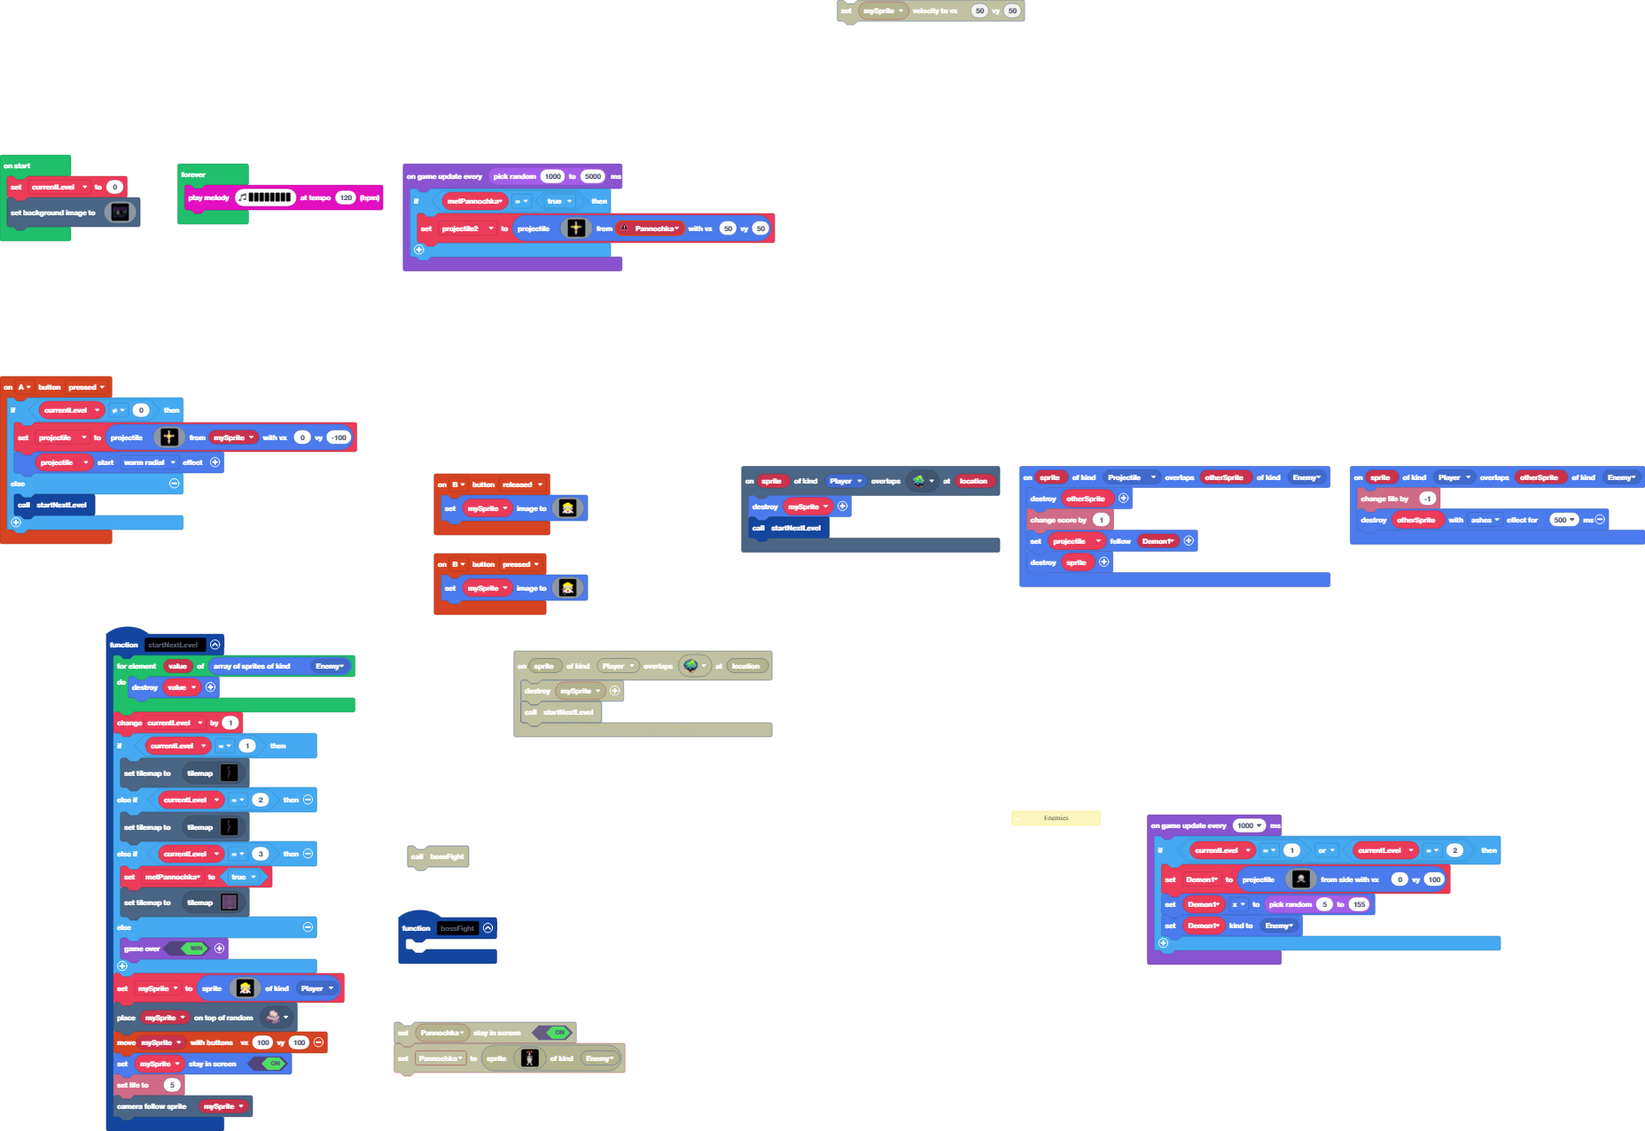
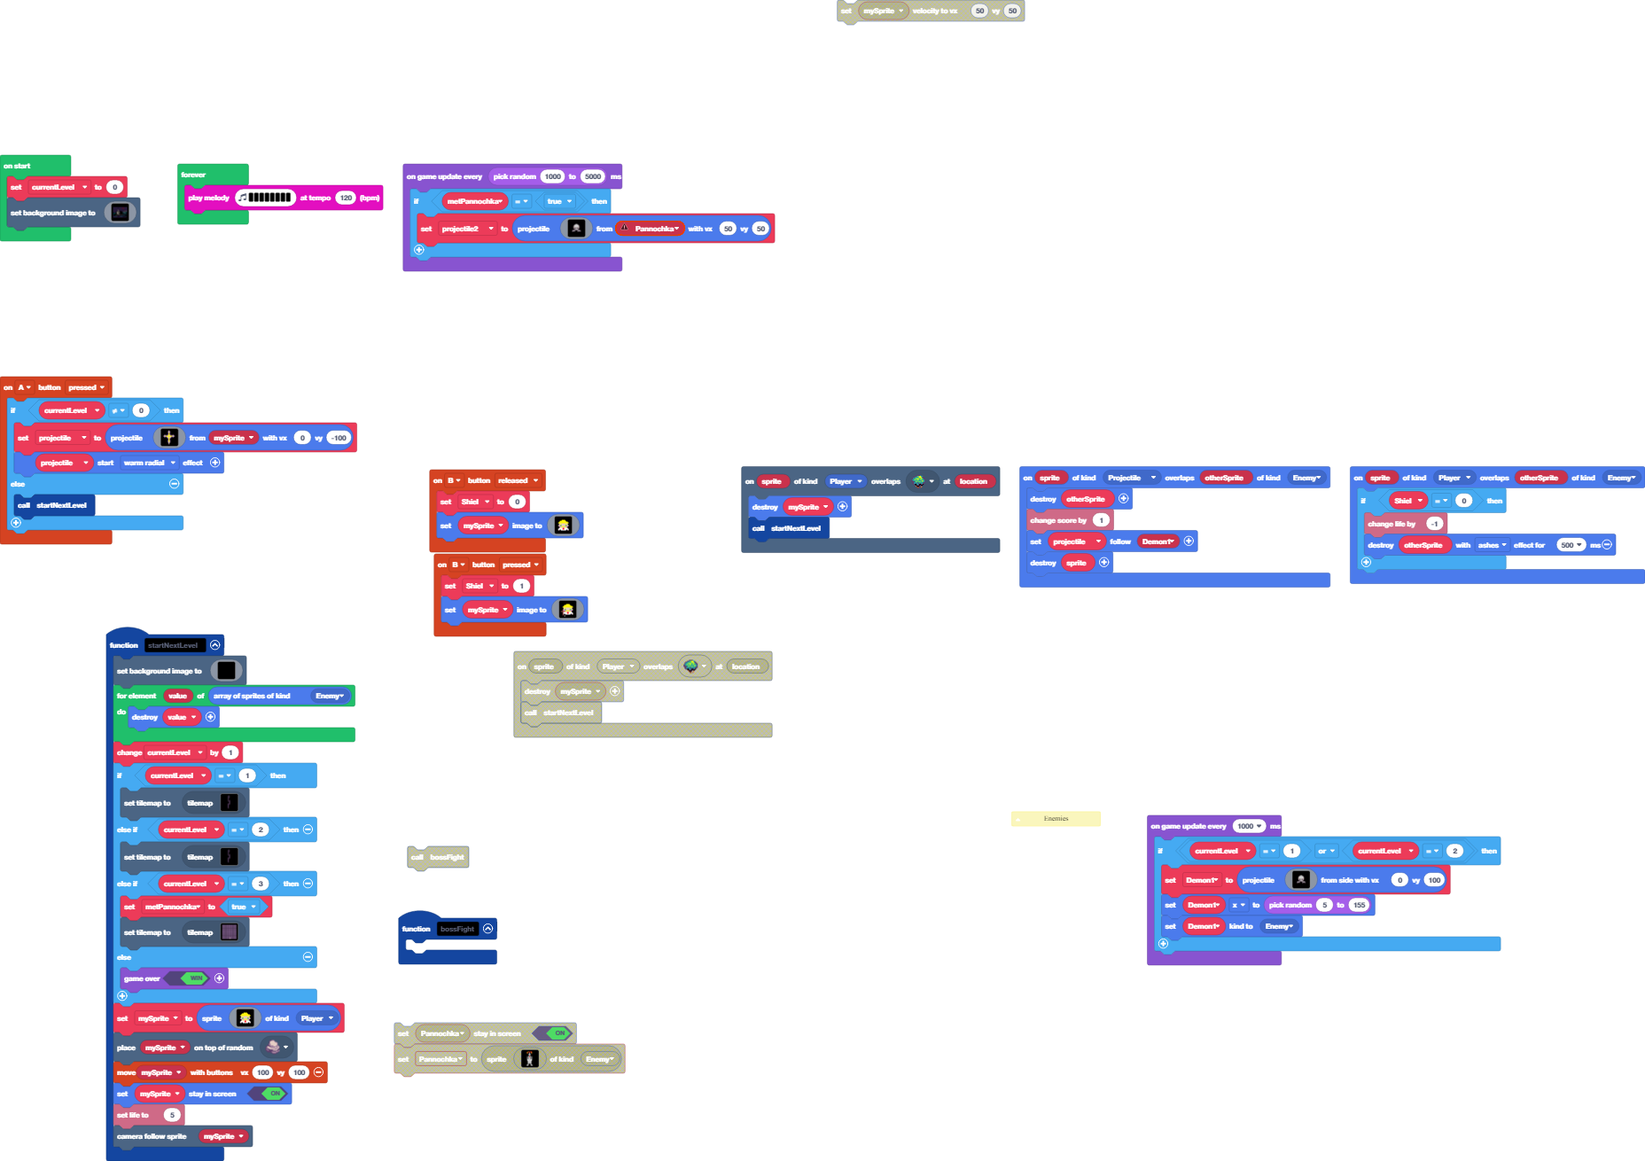
Shield

diff --git a/main.ts b/main.ts
@@ -2,6 +2,7 @@
  * Enemies
  */
 controller.B.onEvent(ControllerButtonEvent.Pressed, function () {
+    Shiel = 1
     mySprite.setImage(img`
         . . . . . . . . . . . . . . . . 
         . . . . . . . . . . . . . . . . 
@@ -50,6 +51,128 @@ controller.A.onEvent(ControllerButtonEvent.Pressed, function () {
     }
 })
 function startNextLevel () {
+    scene.setBackgroundImage(img`
+        ffffffffffffffffffffffffffffffffffffffffffffffffffffffffffffffffffffffffffffffffffffffffffffffffffffffffffffffffffffffffffffffffffffffffffffffffffffffffffffffff
+        ffffffffffffffffffffffffffffffffffffffffffffffffffffffffffffffffffffffffffffffffffffffffffffffffffffffffffffffffffffffffffffffffffffffffffffffffffffffffffffffff
+        ffffffffffffffffffffffffffffffffffffffffffffffffffffffffffffffffffffffffffffffffffffffffffffffffffffffffffffffffffffffffffffffffffffffffffffffffffffffffffffffff
+        ffffffffffffffffffffffffffffffffffffffffffffffffffffffffffffffffffffffffffffffffffffffffffffffffffffffffffffffffffffffffffffffffffffffffffffffffffffffffffffffff
+        ffffffffffffffffffffffffffffffffffffffffffffffffffffffffffffffffffffffffffffffffffffffffffffffffffffffffffffffffffffffffffffffffffffffffffffffffffffffffffffffff
+        ffffffffffffffffffffffffffffffffffffffffffffffffffffffffffffffffffffffffffffffffffffffffffffffffffffffffffffffffffffffffffffffffffffffffffffffffffffffffffffffff
+        ffffffffffffffffffffffffffffffffffffffffffffffffffffffffffffffffffffffffffffffffffffffffffffffffffffffffffffffffffffffffffffffffffffffffffffffffffffffffffffffff
+        ffffffffffffffffffffffffffffffffffffffffffffffffffffffffffffffffffffffffffffffffffffffffffffffffffffffffffffffffffffffffffffffffffffffffffffffffffffffffffffffff
+        ffffffffffffffffffffffffffffffffffffffffffffffffffffffffffffffffffffffffffffffffffffffffffffffffffffffffffffffffffffffffffffffffffffffffffffffffffffffffffffffff
+        ffffffffffffffffffffffffffffffffffffffffffffffffffffffffffffffffffffffffffffffffffffffffffffffffffffffffffffffffffffffffffffffffffffffffffffffffffffffffffffffff
+        ffffffffffffffffffffffffffffffffffffffffffffffffffffffffffffffffffffffffffffffffffffffffffffffffffffffffffffffffffffffffffffffffffffffffffffffffffffffffffffffff
+        ffffffffffffffffffffffffffffffffffffffffffffffffffffffffffffffffffffffffffffffffffffffffffffffffffffffffffffffffffffffffffffffffffffffffffffffffffffffffffffffff
+        ffffffffffffffffffffffffffffffffffffffffffffffffffffffffffffffffffffffffffffffffffffffffffffffffffffffffffffffffffffffffffffffffffffffffffffffffffffffffffffffff
+        ffffffffffffffffffffffffffffffffffffffffffffffffffffffffffffffffffffffffffffffffffffffffffffffffffffffffffffffffffffffffffffffffffffffffffffffffffffffffffffffff
+        ffffffffffffffffffffffffffffffffffffffffffffffffffffffffffffffffffffffffffffffffffffffffffffffffffffffffffffffffffffffffffffffffffffffffffffffffffffffffffffffff
+        ffffffffffffffffffffffffffffffffffffffffffffffffffffffffffffffffffffffffffffffffffffffffffffffffffffffffffffffffffffffffffffffffffffffffffffffffffffffffffffffff
+        ffffffffffffffffffffffffffffffffffffffffffffffffffffffffffffffffffffffffffffffffffffffffffffffffffffffffffffffffffffffffffffffffffffffffffffffffffffffffffffffff
+        ffffffffffffffffffffffffffffffffffffffffffffffffffffffffffffffffffffffffffffffffffffffffffffffffffffffffffffffffffffffffffffffffffffffffffffffffffffffffffffffff
+        ffffffffffffffffffffffffffffffffffffffffffffffffffffffffffffffffffffffffffffffffffffffffffffffffffffffffffffffffffffffffffffffffffffffffffffffffffffffffffffffff
+        ffffffffffffffffffffffffffffffffffffffffffffffffffffffffffffffffffffffffffffffffffffffffffffffffffffffffffffffffffffffffffffffffffffffffffffffffffffffffffffffff
+        ffffffffffffffffffffffffffffffffffffffffffffffffffffffffffffffffffffffffffffffffffffffffffffffffffffffffffffffffffffffffffffffffffffffffffffffffffffffffffffffff
+        ffffffffffffffffffffffffffffffffffffffffffffffffffffffffffffffffffffffffffffffffffffffffffffffffffffffffffffffffffffffffffffffffffffffffffffffffffffffffffffffff
+        ffffffffffffffffffffffffffffffffffffffffffffffffffffffffffffffffffffffffffffffffffffffffffffffffffffffffffffffffffffffffffffffffffffffffffffffffffffffffffffffff
+        ffffffffffffffffffffffffffffffffffffffffffffffffffffffffffffffffffffffffffffffffffffffffffffffffffffffffffffffffffffffffffffffffffffffffffffffffffffffffffffffff
+        ffffffffffffffffffffffffffffffffffffffffffffffffffffffffffffffffffffffffffffffffffffffffffffffffffffffffffffffffffffffffffffffffffffffffffffffffffffffffffffffff
+        ffffffffffffffffffffffffffffffffffffffffffffffffffffffffffffffffffffffffffffffffffffffffffffffffffffffffffffffffffffffffffffffffffffffffffffffffffffffffffffffff
+        ffffffffffffffffffffffffffffffffffffffffffffffffffffffffffffffffffffffffffffffffffffffffffffffffffffffffffffffffffffffffffffffffffffffffffffffffffffffffffffffff
+        ffffffffffffffffffffffffffffffffffffffffffffffffffffffffffffffffffffffffffffffffffffffffffffffffffffffffffffffffffffffffffffffffffffffffffffffffffffffffffffffff
+        ffffffffffffffffffffffffffffffffffffffffffffffffffffffffffffffffffffffffffffffffffffffffffffffffffffffffffffffffffffffffffffffffffffffffffffffffffffffffffffffff
+        ffffffffffffffffffffffffffffffffffffffffffffffffffffffffffffffffffffffffffffffffffffffffffffffffffffffffffffffffffffffffffffffffffffffffffffffffffffffffffffffff
+        ffffffffffffffffffffffffffffffffffffffffffffffffffffffffffffffffffffffffffffffffffffffffffffffffffffffffffffffffffffffffffffffffffffffffffffffffffffffffffffffff
+        ffffffffffffffffffffffffffffffffffffffffffffffffffffffffffffffffffffffffffffffffffffffffffffffffffffffffffffffffffffffffffffffffffffffffffffffffffffffffffffffff
+        ffffffffffffffffffffffffffffffffffffffffffffffffffffffffffffffffffffffffffffffffffffffffffffffffffffffffffffffffffffffffffffffffffffffffffffffffffffffffffffffff
+        ffffffffffffffffffffffffffffffffffffffffffffffffffffffffffffffffffffffffffffffffffffffffffffffffffffffffffffffffffffffffffffffffffffffffffffffffffffffffffffffff
+        ffffffffffffffffffffffffffffffffffffffffffffffffffffffffffffffffffffffffffffffffffffffffffffffffffffffffffffffffffffffffffffffffffffffffffffffffffffffffffffffff
+        ffffffffffffffffffffffffffffffffffffffffffffffffffffffffffffffffffffffffffffffffffffffffffffffffffffffffffffffffffffffffffffffffffffffffffffffffffffffffffffffff
+        ffffffffffffffffffffffffffffffffffffffffffffffffffffffffffffffffffffffffffffffffffffffffffffffffffffffffffffffffffffffffffffffffffffffffffffffffffffffffffffffff
+        ffffffffffffffffffffffffffffffffffffffffffffffffffffffffffffffffffffffffffffffffffffffffffffffffffffffffffffffffffffffffffffffffffffffffffffffffffffffffffffffff
+        ffffffffffffffffffffffffffffffffffffffffffffffffffffffffffffffffffffffffffffffffffffffffffffffffffffffffffffffffffffffffffffffffffffffffffffffffffffffffffffffff
+        ffffffffffffffffffffffffffffffffffffffffffffffffffffffffffffffffffffffffffffffffffffffffffffffffffffffffffffffffffffffffffffffffffffffffffffffffffffffffffffffff
+        ffffffffffffffffffffffffffffffffffffffffffffffffffffffffffffffffffffffffffffffffffffffffffffffffffffffffffffffffffffffffffffffffffffffffffffffffffffffffffffffff
+        ffffffffffffffffffffffffffffffffffffffffffffffffffffffffffffffffffffffffffffffffffffffffffffffffffffffffffffffffffffffffffffffffffffffffffffffffffffffffffffffff
+        ffffffffffffffffffffffffffffffffffffffffffffffffffffffffffffffffffffffffffffffffffffffffffffffffffffffffffffffffffffffffffffffffffffffffffffffffffffffffffffffff
+        ffffffffffffffffffffffffffffffffffffffffffffffffffffffffffffffffffffffffffffffffffffffffffffffffffffffffffffffffffffffffffffffffffffffffffffffffffffffffffffffff
+        ffffffffffffffffffffffffffffffffffffffffffffffffffffffffffffffffffffffffffffffffffffffffffffffffffffffffffffffffffffffffffffffffffffffffffffffffffffffffffffffff
+        ffffffffffffffffffffffffffffffffffffffffffffffffffffffffffffffffffffffffffffffffffffffffffffffffffffffffffffffffffffffffffffffffffffffffffffffffffffffffffffffff
+        ffffffffffffffffffffffffffffffffffffffffffffffffffffffffffffffffffffffffffffffffffffffffffffffffffffffffffffffffffffffffffffffffffffffffffffffffffffffffffffffff
+        ffffffffffffffffffffffffffffffffffffffffffffffffffffffffffffffffffffffffffffffffffffffffffffffffffffffffffffffffffffffffffffffffffffffffffffffffffffffffffffffff
+        ffffffffffffffffffffffffffffffffffffffffffffffffffffffffffffffffffffffffffffffffffffffffffffffffffffffffffffffffffffffffffffffffffffffffffffffffffffffffffffffff
+        ffffffffffffffffffffffffffffffffffffffffffffffffffffffffffffffffffffffffffffffffffffffffffffffffffffffffffffffffffffffffffffffffffffffffffffffffffffffffffffffff
+        ffffffffffffffffffffffffffffffffffffffffffffffffffffffffffffffffffffffffffffffffffffffffffffffffffffffffffffffffffffffffffffffffffffffffffffffffffffffffffffffff
+        ffffffffffffffffffffffffffffffffffffffffffffffffffffffffffffffffffffffffffffffffffffffffffffffffffffffffffffffffffffffffffffffffffffffffffffffffffffffffffffffff
+        ffffffffffffffffffffffffffffffffffffffffffffffffffffffffffffffffffffffffffffffffffffffffffffffffffffffffffffffffffffffffffffffffffffffffffffffffffffffffffffffff
+        ffffffffffffffffffffffffffffffffffffffffffffffffffffffffffffffffffffffffffffffffffffffffffffffffffffffffffffffffffffffffffffffffffffffffffffffffffffffffffffffff
+        ffffffffffffffffffffffffffffffffffffffffffffffffffffffffffffffffffffffffffffffffffffffffffffffffffffffffffffffffffffffffffffffffffffffffffffffffffffffffffffffff
+        ffffffffffffffffffffffffffffffffffffffffffffffffffffffffffffffffffffffffffffffffffffffffffffffffffffffffffffffffffffffffffffffffffffffffffffffffffffffffffffffff
+        ffffffffffffffffffffffffffffffffffffffffffffffffffffffffffffffffffffffffffffffffffffffffffffffffffffffffffffffffffffffffffffffffffffffffffffffffffffffffffffffff
+        ffffffffffffffffffffffffffffffffffffffffffffffffffffffffffffffffffffffffffffffffffffffffffffffffffffffffffffffffffffffffffffffffffffffffffffffffffffffffffffffff
+        ffffffffffffffffffffffffffffffffffffffffffffffffffffffffffffffffffffffffffffffffffffffffffffffffffffffffffffffffffffffffffffffffffffffffffffffffffffffffffffffff
+        ffffffffffffffffffffffffffffffffffffffffffffffffffffffffffffffffffffffffffffffffffffffffffffffffffffffffffffffffffffffffffffffffffffffffffffffffffffffffffffffff
+        ffffffffffffffffffffffffffffffffffffffffffffffffffffffffffffffffffffffffffffffffffffffffffffffffffffffffffffffffffffffffffffffffffffffffffffffffffffffffffffffff
+        ffffffffffffffffffffffffffffffffffffffffffffffffffffffffffffffffffffffffffffffffffffffffffffffffffffffffffffffffffffffffffffffffffffffffffffffffffffffffffffffff
+        ffffffffffffffffffffffffffffffffffffffffffffffffffffffffffffffffffffffffffffffffffffffffffffffffffffffffffffffffffffffffffffffffffffffffffffffffffffffffffffffff
+        ffffffffffffffffffffffffffffffffffffffffffffffffffffffffffffffffffffffffffffffffffffffffffffffffffffffffffffffffffffffffffffffffffffffffffffffffffffffffffffffff
+        ffffffffffffffffffffffffffffffffffffffffffffffffffffffffffffffffffffffffffffffffffffffffffffffffffffffffffffffffffffffffffffffffffffffffffffffffffffffffffffffff
+        ffffffffffffffffffffffffffffffffffffffffffffffffffffffffffffffffffffffffffffffffffffffffffffffffffffffffffffffffffffffffffffffffffffffffffffffffffffffffffffffff
+        ffffffffffffffffffffffffffffffffffffffffffffffffffffffffffffffffffffffffffffffffffffffffffffffffffffffffffffffffffffffffffffffffffffffffffffffffffffffffffffffff
+        ffffffffffffffffffffffffffffffffffffffffffffffffffffffffffffffffffffffffffffffffffffffffffffffffffffffffffffffffffffffffffffffffffffffffffffffffffffffffffffffff
+        ffffffffffffffffffffffffffffffffffffffffffffffffffffffffffffffffffffffffffffffffffffffffffffffffffffffffffffffffffffffffffffffffffffffffffffffffffffffffffffffff
+        ffffffffffffffffffffffffffffffffffffffffffffffffffffffffffffffffffffffffffffffffffffffffffffffffffffffffffffffffffffffffffffffffffffffffffffffffffffffffffffffff
+        ffffffffffffffffffffffffffffffffffffffffffffffffffffffffffffffffffffffffffffffffffffffffffffffffffffffffffffffffffffffffffffffffffffffffffffffffffffffffffffffff
+        ffffffffffffffffffffffffffffffffffffffffffffffffffffffffffffffffffffffffffffffffffffffffffffffffffffffffffffffffffffffffffffffffffffffffffffffffffffffffffffffff
+        ffffffffffffffffffffffffffffffffffffffffffffffffffffffffffffffffffffffffffffffffffffffffffffffffffffffffffffffffffffffffffffffffffffffffffffffffffffffffffffffff
+        ffffffffffffffffffffffffffffffffffffffffffffffffffffffffffffffffffffffffffffffffffffffffffffffffffffffffffffffffffffffffffffffffffffffffffffffffffffffffffffffff
+        ffffffffffffffffffffffffffffffffffffffffffffffffffffffffffffffffffffffffffffffffffffffffffffffffffffffffffffffffffffffffffffffffffffffffffffffffffffffffffffffff
+        ffffffffffffffffffffffffffffffffffffffffffffffffffffffffffffffffffffffffffffffffffffffffffffffffffffffffffffffffffffffffffffffffffffffffffffffffffffffffffffffff
+        ffffffffffffffffffffffffffffffffffffffffffffffffffffffffffffffffffffffffffffffffffffffffffffffffffffffffffffffffffffffffffffffffffffffffffffffffffffffffffffffff
+        ffffffffffffffffffffffffffffffffffffffffffffffffffffffffffffffffffffffffffffffffffffffffffffffffffffffffffffffffffffffffffffffffffffffffffffffffffffffffffffffff
+        ffffffffffffffffffffffffffffffffffffffffffffffffffffffffffffffffffffffffffffffffffffffffffffffffffffffffffffffffffffffffffffffffffffffffffffffffffffffffffffffff
+        ffffffffffffffffffffffffffffffffffffffffffffffffffffffffffffffffffffffffffffffffffffffffffffffffffffffffffffffffffffffffffffffffffffffffffffffffffffffffffffffff
+        ffffffffffffffffffffffffffffffffffffffffffffffffffffffffffffffffffffffffffffffffffffffffffffffffffffffffffffffffffffffffffffffffffffffffffffffffffffffffffffffff
+        ffffffffffffffffffffffffffffffffffffffffffffffffffffffffffffffffffffffffffffffffffffffffffffffffffffffffffffffffffffffffffffffffffffffffffffffffffffffffffffffff
+        ffffffffffffffffffffffffffffffffffffffffffffffffffffffffffffffffffffffffffffffffffffffffffffffffffffffffffffffffffffffffffffffffffffffffffffffffffffffffffffffff
+        ffffffffffffffffffffffffffffffffffffffffffffffffffffffffffffffffffffffffffffffffffffffffffffffffffffffffffffffffffffffffffffffffffffffffffffffffffffffffffffffff
+        ffffffffffffffffffffffffffffffffffffffffffffffffffffffffffffffffffffffffffffffffffffffffffffffffffffffffffffffffffffffffffffffffffffffffffffffffffffffffffffffff
+        ffffffffffffffffffffffffffffffffffffffffffffffffffffffffffffffffffffffffffffffffffffffffffffffffffffffffffffffffffffffffffffffffffffffffffffffffffffffffffffffff
+        ffffffffffffffffffffffffffffffffffffffffffffffffffffffffffffffffffffffffffffffffffffffffffffffffffffffffffffffffffffffffffffffffffffffffffffffffffffffffffffffff
+        ffffffffffffffffffffffffffffffffffffffffffffffffffffffffffffffffffffffffffffffffffffffffffffffffffffffffffffffffffffffffffffffffffffffffffffffffffffffffffffffff
+        ffffffffffffffffffffffffffffffffffffffffffffffffffffffffffffffffffffffffffffffffffffffffffffffffffffffffffffffffffffffffffffffffffffffffffffffffffffffffffffffff
+        ffffffffffffffffffffffffffffffffffffffffffffffffffffffffffffffffffffffffffffffffffffffffffffffffffffffffffffffffffffffffffffffffffffffffffffffffffffffffffffffff
+        ffffffffffffffffffffffffffffffffffffffffffffffffffffffffffffffffffffffffffffffffffffffffffffffffffffffffffffffffffffffffffffffffffffffffffffffffffffffffffffffff
+        ffffffffffffffffffffffffffffffffffffffffffffffffffffffffffffffffffffffffffffffffffffffffffffffffffffffffffffffffffffffffffffffffffffffffffffffffffffffffffffffff
+        ffffffffffffffffffffffffffffffffffffffffffffffffffffffffffffffffffffffffffffffffffffffffffffffffffffffffffffffffffffffffffffffffffffffffffffffffffffffffffffffff
+        ffffffffffffffffffffffffffffffffffffffffffffffffffffffffffffffffffffffffffffffffffffffffffffffffffffffffffffffffffffffffffffffffffffffffffffffffffffffffffffffff
+        ffffffffffffffffffffffffffffffffffffffffffffffffffffffffffffffffffffffffffffffffffffffffffffffffffffffffffffffffffffffffffffffffffffffffffffffffffffffffffffffff
+        ffffffffffffffffffffffffffffffffffffffffffffffffffffffffffffffffffffffffffffffffffffffffffffffffffffffffffffffffffffffffffffffffffffffffffffffffffffffffffffffff
+        ffffffffffffffffffffffffffffffffffffffffffffffffffffffffffffffffffffffffffffffffffffffffffffffffffffffffffffffffffffffffffffffffffffffffffffffffffffffffffffffff
+        ffffffffffffffffffffffffffffffffffffffffffffffffffffffffffffffffffffffffffffffffffffffffffffffffffffffffffffffffffffffffffffffffffffffffffffffffffffffffffffffff
+        ffffffffffffffffffffffffffffffffffffffffffffffffffffffffffffffffffffffffffffffffffffffffffffffffffffffffffffffffffffffffffffffffffffffffffffffffffffffffffffffff
+        ffffffffffffffffffffffffffffffffffffffffffffffffffffffffffffffffffffffffffffffffffffffffffffffffffffffffffffffffffffffffffffffffffffffffffffffffffffffffffffffff
+        ffffffffffffffffffffffffffffffffffffffffffffffffffffffffffffffffffffffffffffffffffffffffffffffffffffffffffffffffffffffffffffffffffffffffffffffffffffffffffffffff
+        ffffffffffffffffffffffffffffffffffffffffffffffffffffffffffffffffffffffffffffffffffffffffffffffffffffffffffffffffffffffffffffffffffffffffffffffffffffffffffffffff
+        ffffffffffffffffffffffffffffffffffffffffffffffffffffffffffffffffffffffffffffffffffffffffffffffffffffffffffffffffffffffffffffffffffffffffffffffffffffffffffffffff
+        ffffffffffffffffffffffffffffffffffffffffffffffffffffffffffffffffffffffffffffffffffffffffffffffffffffffffffffffffffffffffffffffffffffffffffffffffffffffffffffffff
+        ffffffffffffffffffffffffffffffffffffffffffffffffffffffffffffffffffffffffffffffffffffffffffffffffffffffffffffffffffffffffffffffffffffffffffffffffffffffffffffffff
+        ffffffffffffffffffffffffffffffffffffffffffffffffffffffffffffffffffffffffffffffffffffffffffffffffffffffffffffffffffffffffffffffffffffffffffffffffffffffffffffffff
+        ffffffffffffffffffffffffffffffffffffffffffffffffffffffffffffffffffffffffffffffffffffffffffffffffffffffffffffffffffffffffffffffffffffffffffffffffffffffffffffffff
+        ffffffffffffffffffffffffffffffffffffffffffffffffffffffffffffffffffffffffffffffffffffffffffffffffffffffffffffffffffffffffffffffffffffffffffffffffffffffffffffffff
+        ffffffffffffffffffffffffffffffffffffffffffffffffffffffffffffffffffffffffffffffffffffffffffffffffffffffffffffffffffffffffffffffffffffffffffffffffffffffffffffffff
+        ffffffffffffffffffffffffffffffffffffffffffffffffffffffffffffffffffffffffffffffffffffffffffffffffffffffffffffffffffffffffffffffffffffffffffffffffffffffffffffffff
+        ffffffffffffffffffffffffffffffffffffffffffffffffffffffffffffffffffffffffffffffffffffffffffffffffffffffffffffffffffffffffffffffffffffffffffffffffffffffffffffffff
+        ffffffffffffffffffffffffffffffffffffffffffffffffffffffffffffffffffffffffffffffffffffffffffffffffffffffffffffffffffffffffffffffffffffffffffffffffffffffffffffffff
+        ffffffffffffffffffffffffffffffffffffffffffffffffffffffffffffffffffffffffffffffffffffffffffffffffffffffffffffffffffffffffffffffffffffffffffffffffffffffffffffffff
+        ffffffffffffffffffffffffffffffffffffffffffffffffffffffffffffffffffffffffffffffffffffffffffffffffffffffffffffffffffffffffffffffffffffffffffffffffffffffffffffffff
+        ffffffffffffffffffffffffffffffffffffffffffffffffffffffffffffffffffffffffffffffffffffffffffffffffffffffffffffffffffffffffffffffffffffffffffffffffffffffffffffffff
+        ffffffffffffffffffffffffffffffffffffffffffffffffffffffffffffffffffffffffffffffffffffffffffffffffffffffffffffffffffffffffffffffffffffffffffffffffffffffffffffffff
+        ffffffffffffffffffffffffffffffffffffffffffffffffffffffffffffffffffffffffffffffffffffffffffffffffffffffffffffffffffffffffffffffffffffffffffffffffffffffffffffffff
+        ffffffffffffffffffffffffffffffffffffffffffffffffffffffffffffffffffffffffffffffffffffffffffffffffffffffffffffffffffffffffffffffffffffffffffffffffffffffffffffffff
+        ffffffffffffffffffffffffffffffffffffffffffffffffffffffffffffffffffffffffffffffffffffffffffffffffffffffffffffffffffffffffffffffffffffffffffffffffffffffffffffffff
+        ffffffffffffffffffffffffffffffffffffffffffffffffffffffffffffffffffffffffffffffffffffffffffffffffffffffffffffffffffffffffffffffffffffffffffffffffffffffffffffffff
+        `)
     for (let value of sprites.allOfKind(SpriteKind.Enemy)) {
         value.destroy()
     }
@@ -89,6 +212,7 @@ function startNextLevel () {
     scene.cameraFollowSprite(mySprite)
 }
 controller.B.onEvent(ControllerButtonEvent.Released, function () {
+    Shiel = 0
     mySprite.setImage(img`
         . . . . . . . . . . . . . . . . 
         . . . . . . . . . . . . . . . . 
@@ -119,14 +243,17 @@ sprites.onOverlap(SpriteKind.Projectile, SpriteKind.Enemy, function (sprite, oth
     sprite.destroy()
 })
 sprites.onOverlap(SpriteKind.Player, SpriteKind.Enemy, function (sprite, otherSprite) {
-    info.changeLifeBy(-1)
-    otherSprite.destroy(effects.ashes, 500)
+    if (Shiel == 0) {
+        info.changeLifeBy(-1)
+        otherSprite.destroy(effects.ashes, 500)
+    }
 })
 let projectile2: Sprite = null
 let Demon1: Sprite = null
 let metPannochka = false
 let projectile: Sprite = null
 let mySprite: Sprite = null
+let Shiel = 0
 let currentLevel = 0
 currentLevel = 0
 scene.setBackgroundImage(img`
@@ -254,24 +381,7 @@ scene.setBackgroundImage(img`
 game.onUpdateInterval(randint(1000, 5000), function () {
     if (metPannochka == true) {
         let Pannochka: Sprite = null
-        projectile2 = sprites.createProjectileFromSprite(img`
-            . . . . . . . b . . . . . . . . 
-            . . . . . . b d b . . . . . . . 
-            . . . . . . c d c . . . . . . . 
-            . . . . . . c 5 c . . . . . . . 
-            . . . . . . c 5 c . . . . . . . 
-            . . b c c c d 5 d c c c b . . . 
-            . b d d 5 5 5 5 5 5 5 d d b . . 
-            . . b c c d d 5 d d c c b . . . 
-            . . . . . c d 5 d c . . . . . . 
-            . . . . . . c 5 c . . . . . . . 
-            . . . . . . c 5 c . . . . . . . 
-            . . . . . . b 5 b . . . . . . . 
-            . . . . . . b 5 b . . . . . . . 
-            . . . . . . b d b . . . . . . . 
-            . . . . . . . d . . . . . . . . 
-            . . . . . . . b . . . . . . . . 
-            `, Pannochka, 50, 50)
+        projectile2 = sprites.createProjectileFromSprite(assets.image`Chort`, Pannochka, 50, 50)
     }
 })
 game.onUpdateInterval(1000, function () {
